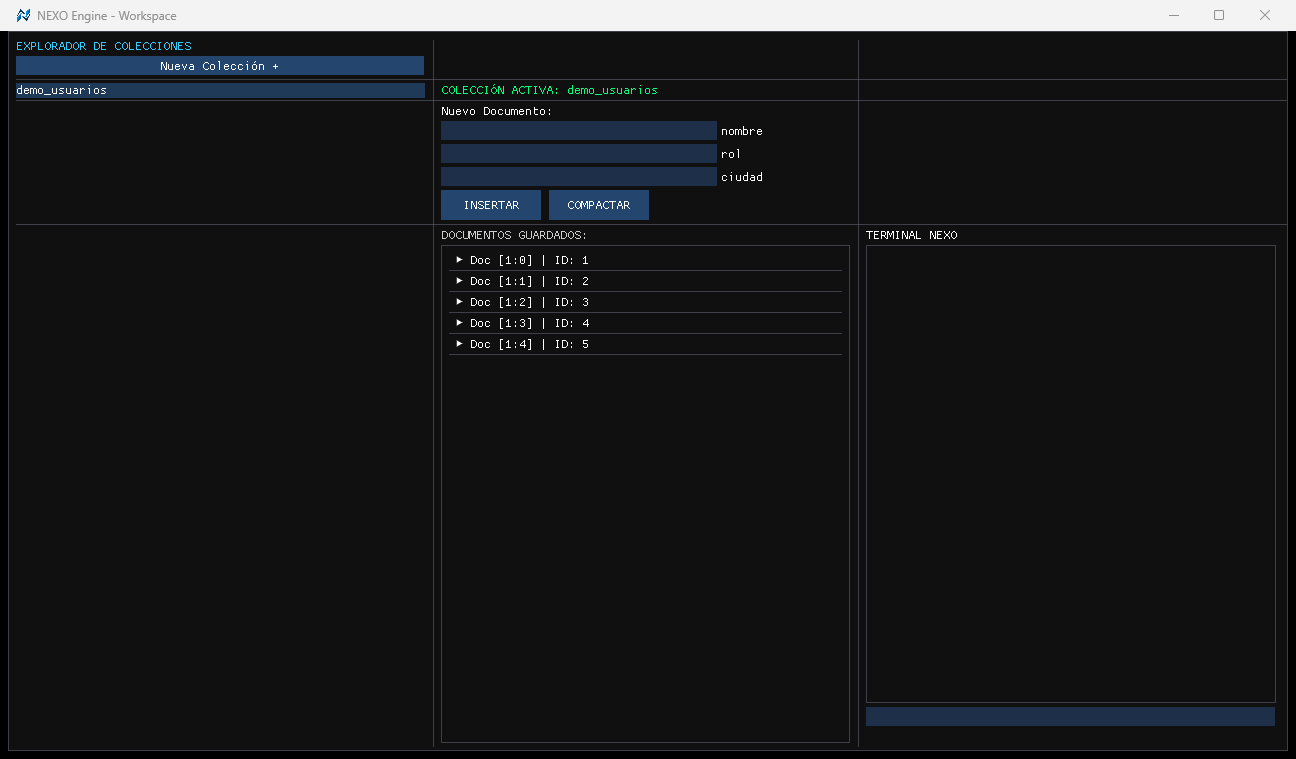
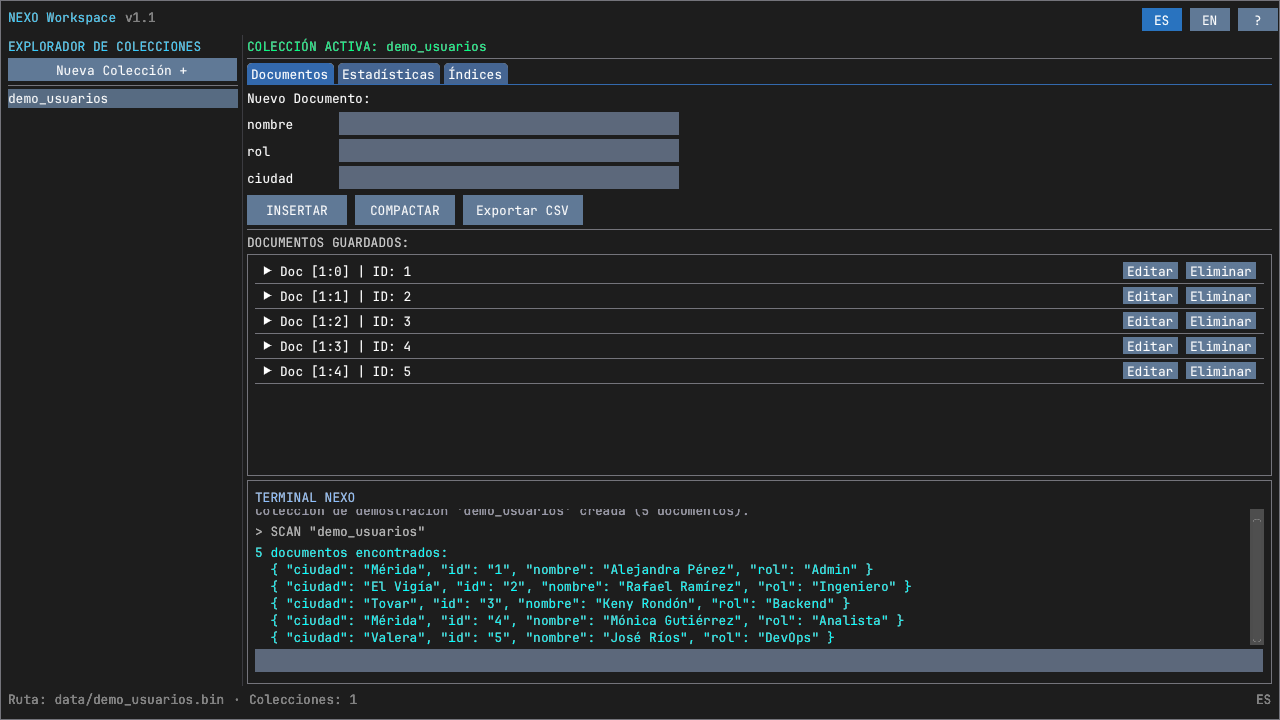
docs: demo GIF, refreshed screenshots and the v1.1 feature set
- docs/demo.gif: the whole workflow captured by the in-app demo driver
  (SCAN, statistics, index creation, in-place edit, confirmed delete, the
  guide, the ES->EN switch and the CSV export) and assembled at 960x540.
- docs/screenshot.png: fresh capture of the table layout with terminal
  output.
- Landing page: the GIF is now the hero, two new cards (workspace tabs,
  bilingual UI), updated test counts and a link to the Spanish README.
- READMEs (EN/ES): demo GIF, a 'Using the workspace' table per tab,
  CSV export, five test files, language switcher at the top.

diff --git a/docs/index.html b/docs/index.html
@@ -115,14 +115,15 @@
   </div>
 </section>
 
-<div class="shot"><img src="https://raw.githubusercontent.com/kenyosiosi/NEXO/main/docs/screenshot.png" alt="NEXO Engine workspace UI"></div>
+<div class="shot"><img src="https://raw.githubusercontent.com/kenyosiosi/NEXO/main/docs/demo.gif" alt="NEXO Engine in action: creating an index, editing a document, exporting CSV and switching to English"></div>
 
 <section class="features">
   <div class="card"><h3>Page-based storage</h3><p>Heap Files in 4096-byte slotted pages, logical deletes with tombstones and auto-compact that physically reclaims space.</p></div>
   <div class="card"><h3>B-Tree indexes</h3><p>Persistent trees with a parametric minimum degree, page-aligned on disk. Secondary indexes built over live data on demand.</p></div>
   <div class="card"><h3>Query language</h3><p>Tokenizer → parser → AST → executor for CREATE, INSERT, GET, UPDATE, DELETE, SCAN, INDEX, STATS, DROP and COMPACT.</p></div>
-  <div class="card"><h3>Workspace GUI</h3><p>Collection explorer, JSON-tree document viewer and an interactive terminal, rendered with Dear ImGui + SFML 3.</p></div>
-  <div class="card"><h3>Tested &amp; hardened</h3><p>~1500 doctest assertions cover the engine; every buffer, offset and pointer is validated before it is trusted.</p></div>
+  <div class="card"><h3>Workspace GUI</h3><p>Documents, live statistics and index management in one window: edit and delete in place, drop or create B-Trees, export to CSV.</p></div>
+  <div class="card"><h3>Bilingual ES / EN</h3><p>Every UI label and engine message lives in a bilingual catalog, switched from the header without restarting.</p></div>
+  <div class="card"><h3>Tested &amp; hardened</h3><p>45 doctest cases / 1540 assertions cover the engine; every buffer, offset and pointer is validated before it is trusted.</p></div>
   <div class="card"><h3>Portable build</h3><p>CMake + FetchContent downloads SFML 3 and ImGui automatically. One command to build on Windows and Linux.</p></div>
 </section>
 
@@ -138,7 +139,8 @@ $ ./build.sh --test    # Linux / WSL</pre>
   <a href="https://github.com/Rafael-A69">Rafael-A69</a> ·
   <a href="https://github.com/Chinoto03">Chinoto03</a> ·
   <a href="https://github.com/kenyosiosi">kenyosiosi</a> ·
-  <a href="https://github.com/kenyosiosi/NEXO/blob/main/LICENSE">MIT License</a>
+  <a href="https://github.com/kenyosiosi/NEXO/blob/main/LICENSE">MIT License</a> ·
+  <a href="https://github.com/kenyosiosi/NEXO/blob/main/README.es.md">Leer en español</a>
 </footer>
 
 </body>

diff --git a/README.es.md b/README.es.md
@@ -1,5 +1,7 @@
 # NEXO Engine
 
+[English](README.md) · **Español**
+
 [![CI](https://github.com/kenyosiosi/NEXO/actions/workflows/ci.yml/badge.svg)](https://github.com/kenyosiosi/NEXO/actions/workflows/ci.yml)
 ![C++17](https://img.shields.io/badge/C%2B%2B-17-00599C?logo=cplusplus&logoColor=white)
 ![License](https://img.shields.io/badge/license-MIT-green)
@@ -10,14 +12,18 @@ Un **Sistema de Gestión de Bases de Datos (DBMS) no relacional desarrollado des
 
 ![NEXO Engine workspace](docs/screenshot.png)
 
+![NEXO Engine en acción](docs/demo.gif)
+
 ## Características
 
 - **Motor de almacenamiento** — Heap Files organizados en páginas de 4096 bytes con slots, borrado lógico (tombstones) y **auto-compactación** que recupera físicamente el espacio de los registros muertos.
 - **Indexación con Árboles B** — Árboles B persistentes con **grado mínimo paramétrico** (2–27, limitado por el tamaño de página), serializados alineados a página. Los índices secundarios se construyen sobre los datos existentes a demanda.
 - **Lenguaje de consultas** — tokenizer → parser descendente recursivo → AST → executor. Comandos: `CREATE`, `DEFINE`, `INSERT`, `GET`, `UPDATE`, `DELETE`, `SCAN`, `INDEX`, `STATS`, `DROP`, `COMPACT`.
-- **GUI de trabajo** — explorador de colecciones, visor de documentos en árbol (JSON) y una terminal interactiva, renderizados con Dear ImGui + SFML 3.
+- **GUI de trabajo** — una pestaña por colección: **Documentos** (insertar, editar y eliminar en el sitio), **Estadísticas** (páginas, slots, registros vivos/muertos, barra de fragmentación, tamaño en disco, recalculado cada frame) e **Índices** (lista cada Árbol B con su grado, crea y elimina índices secundarios con un clic). Incluye terminal con historial, guía integrada y **cambio ES/EN**.
+- **Exportación CSV** — un clic escribe `data/<coleccion>.csv` (comillas RFC 4180, UTF-8 con BOM para que Excel muestre bien los acentos) solo con los registros vivos.
 - **Contadores a prueba de cortes** — las secuencias de esquemas y el estado de asignación de páginas se persisten en cada escritura: reabrir una colección nunca corrompe sus índices.
 - **E/S endurecida** — el serializador y la capa de almacenamiento validan cada longitud, offset y puntero antes de tocar memoria; los archivos corruptos degradan con elegancia en vez de crashear.
+- **Bilingüe por diseño** — los mensajes del motor (`Core/Messages`) y las etiquetas de la UI (`ui/GuiStrings`) viven en dos catálogos ES/EN gobernados por un único interruptor de idioma.
 
 ## Descarga
 
@@ -53,13 +59,15 @@ El binario queda en `build/NexoEngine.exe` (Windows) o `build-linux/NexoEngine` 
 
 ## Tests
 
-`nexo_tests` cubre el motor de forma headless con [doctest](https://github.com/doctest/doctest) — ~31 casos de prueba / ~1500 aserciones en tres archivos:
+`nexo_tests` cubre el motor de forma headless con [doctest](https://github.com/doctest/doctest) — 45 casos de prueba / 1540 aserciones en cinco archivos:
 
 | Archivo | Cubre |
 |---|---|
-| `tests/test_storage.cpp` | Round-trips del serializador, buffers truncados/mentirosos, desborde de páginas, tombstones, persistencia, rechazo de registros gigantes |
+| `tests/test_storage.cpp` | Round-trips del serializador, buffers truncados/mentirosos, desborde de páginas, tombstones, persistencia, rechazo de registros gigantes, stats sin índice |
 | `tests/test_btree.cpp` | Inserciones ordenadas/desordenadas/duplicadas, grado paramétrico, consistencia al reabrir tras splits |
 | `tests/test_query.cpp` | ASTs del tokenizer/parser y flujos end-to-end CREATE→INSERT→GET→UPDATE→DELETE→DROP |
+| `tests/test_messages.cpp` | Catálogos ES/EN, interpolación `{n}`, argumentos faltantes |
+| `tests/test_export.cpp` | Escape CSV (comas, comillas, saltos de línea), orden de cabecera, campos y colecciones vacías |
 
 ```bash
 ctest --test-dir build --output-on-failure
@@ -84,7 +92,17 @@ El CI compila y testea cada push en Linux (GCC) y Windows (MinGW-w64 UCRT64).
 - `NexoEngine` — la capa de UI por encima.
 - `nexo_tests` — la suite doctest.
 
-Layout de datos: `<coleccion>.bin` (heap file), `<coleccion>.schema` (siguiente id + campos), `<coleccion>_<campo>.idx` (páginas del Árbol B).
+Layout de datos: `<coleccion>.bin` (heap file), `<coleccion>.schema` (siguiente id + campos), `<coleccion>_<campo>.idx` (páginas del Árbol B), `<coleccion>.csv` (exportación).
+
+## Cómo usar la interfaz
+
+| Dónde | Qué puedes hacer |
+|---|---|
+| Pestaña **Documentos** | Rellena el formulario y pulsa **Insertar**; **Editar**/**Eliminar** en cualquier fila (la edición conserva el id, el borrado es lógico y pide confirmación); **Compactar** reescribe el archivo sin registros muertos; **Exportar CSV** vuelca los registros vivos |
+| Pestaña **Estadísticas** | Páginas, slots totales, registros vivos/muertos, barra de fragmentación y tamaño en disco — recalculados desde las cabeceras de página en cada frame |
+| Pestaña **Índices** | Cada Árbol B con su grado actual; elimina cualquier índice salvo el estructural `id`, o crea uno sobre un campo desde el combo |
+| **Terminal** | Cualquier comando de la lista de arriba; `↑`/`↓` recorren el historial, `HELP` imprime la referencia, `CLEAR` limpia el log |
+| **`?` / `ES`·`EN`** | Guía integrada (primeros pasos, comandos con botón *Probar*, atajos) y un interruptor de idioma que también cambia los mensajes del motor |
 
 ## Ejemplo de sesión
 

diff --git a/README.md b/README.md
@@ -1,5 +1,7 @@
 # NEXO Engine
 
+**English** · [Español](README.es.md)
+
 [![CI](https://github.com/kenyosiosi/NEXO/actions/workflows/ci.yml/badge.svg)](https://github.com/kenyosiosi/NEXO/actions/workflows/ci.yml)
 ![C++17](https://img.shields.io/badge/C%2B%2B-17-00599C?logo=cplusplus&logoColor=white)
 ![License](https://img.shields.io/badge/license-MIT-green)
@@ -10,14 +12,18 @@ A **non-relational DBMS built from scratch in C++17**, with a page-based storage
 
 ![NEXO Engine workspace](docs/screenshot.png)
 
+![NEXO Engine in action](docs/demo.gif)
+
 ## Features
 
 - **Storage engine** — Heap Files organized in 4096-byte pages with slotted pages, logical deletes (tombstones) and **auto-compact** that physically reclaims dead records.
 - **B-Tree indexing** — persistent B-Trees with a **parametric minimum degree** (2–27, bounded by page size), stored page-aligned on disk. Secondary indexes are built over existing data on demand.
 - **Query language** — tokenizer → recursive-descent parser → AST → executor. Commands: `CREATE`, `DEFINE`, `INSERT`, `GET`, `UPDATE`, `DELETE`, `SCAN`, `INDEX`, `STATS`, `DROP`, `COMPACT`.
-- **Workspace GUI** — collection explorer, JSON-tree document viewer and an interactive terminal, rendered with Dear ImGui + SFML 3.
+- **Workspace GUI** — one tab per collection: **Documents** (insert, edit and delete in place), **Statistics** (pages, slots, live/dead records, fragmentation bar, file size, refreshed every frame) and **Indexes** (list every B-Tree with its degree, create and drop secondary indexes with one click). Plus a terminal with command history, an in-app guide and **ES/EN toggle**.
+- **CSV export** — one click writes `data/<collection>.csv` (RFC 4180 quoting, UTF-8 with BOM so Excel shows accents) with the live records only.
 - **Crash-safe counters** — schema sequences and page allocation state are persisted on every write, so reopening a collection never corrupts its indexes.
 - **Hardened I/O** — the serializer and storage layers validate every length, offset and pointer before touching memory; corrupted files degrade gracefully instead of crashing.
+- **Bilingual by design** — engine messages (`Core/Messages`) and UI labels (`ui/GuiStrings`) live in two ES/EN catalogs driven by a single language switch.
 
 ## Download
 
@@ -53,13 +59,15 @@ The binary is written to `build/NexoEngine.exe` (Windows) or `build-linux/NexoEn
 
 ## Tests
 
-`nexo_tests` covers the engine headlessly with [doctest](https://github.com/doctest/doctest) — ~31 test cases / ~1500 assertions across three files:
+`nexo_tests` covers the engine headlessly with [doctest](https://github.com/doctest/doctest) — 45 test cases / 1540 assertions across five files:
 
 | File | Covers |
 |---|---|
-| `tests/test_storage.cpp` | Serializer round-trips, truncated/lying buffers, page overflow, tombstones, persistence, oversized-record rejection |
+| `tests/test_storage.cpp` | Serializer round-trips, truncated/lying buffers, page overflow, tombstones, persistence, oversized-record rejection, index-free stats |
 | `tests/test_btree.cpp` | Ordered/unordered/duplicate insertions, parametric degree, reopen consistency across splits |
 | `tests/test_query.cpp` | Tokenizer/parser ASTs and end-to-end CREATE→INSERT→GET→UPDATE→DELETE→DROP flows |
+| `tests/test_messages.cpp` | ES/EN catalogs, `{n}` interpolation, missing arguments |
+| `tests/test_export.cpp` | CSV escaping (commas, quotes, line breaks), header order, empty fields and collections |
 
 ```bash
 ctest --test-dir build --output-on-failure
@@ -84,7 +92,17 @@ CI builds and tests every push on both Linux (GCC) and Windows (MinGW-w64 UCRT64
 - `NexoEngine` — the UI layer on top.
 - `nexo_tests` — the doctest suite.
 
-Data layout: `<collection>.bin` (heap file), `<collection>.schema` (next id + field list), `<collection>_<field>.idx` (B-Tree pages).
+Data layout: `<collection>.bin` (heap file), `<collection>.schema` (next id + field list), `<collection>_<field>.idx` (B-Tree pages), `<collection>.csv` (export).
+
+## Using the workspace
+
+| Where | What you can do |
+|---|---|
+| **Documents** tab | Fill the form and press **Insert**; **Edit**/**Delete** on any row (edit keeps the id, delete is a tombstone with confirmation); **Compact** rewrites the file without dead records; **Export CSV** dumps the live records |
+| **Statistics** tab | Pages, total slots, live/dead records, fragmentation bar and on-disk size — recomputed from the page headers every frame |
+| **Indexes** tab | Every B-Tree with its current degree; drop any index except the structural `id`, or create one over a field from the combo |
+| **Terminal** | Any command from the list above; `↑`/`↓` walk the history, `HELP` prints the command reference, `CLEAR` empties the log |
+| **`?` / `ES`·`EN`** | In-app guide (getting started, commands with a *Try* button, shortcuts) and a language switch that also flips engine messages |
 
 ## Example session
 
